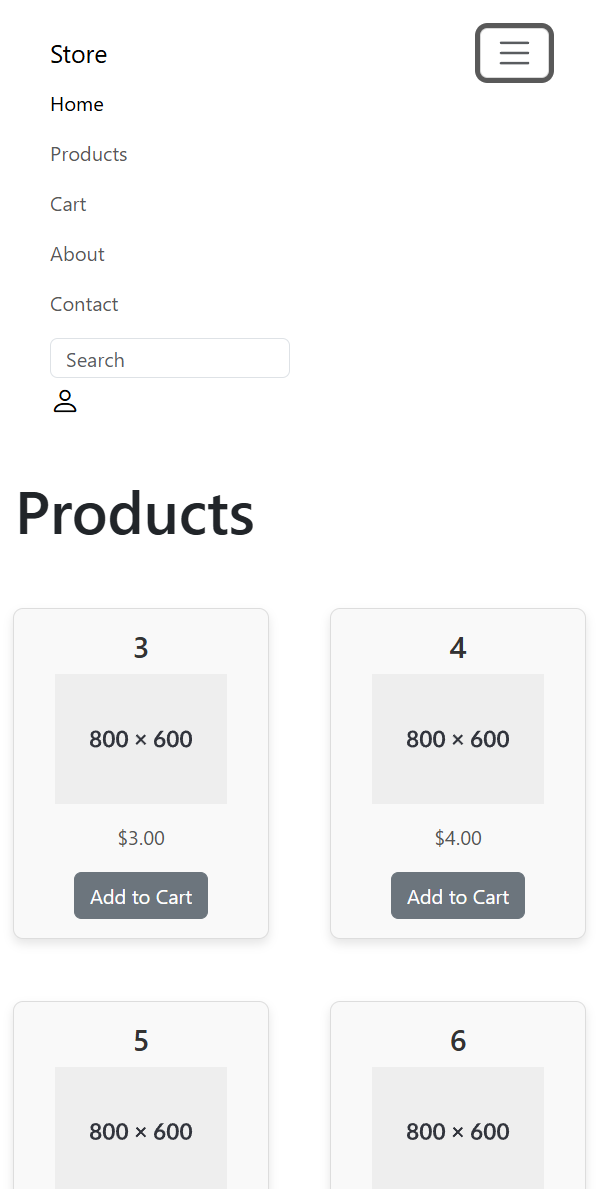
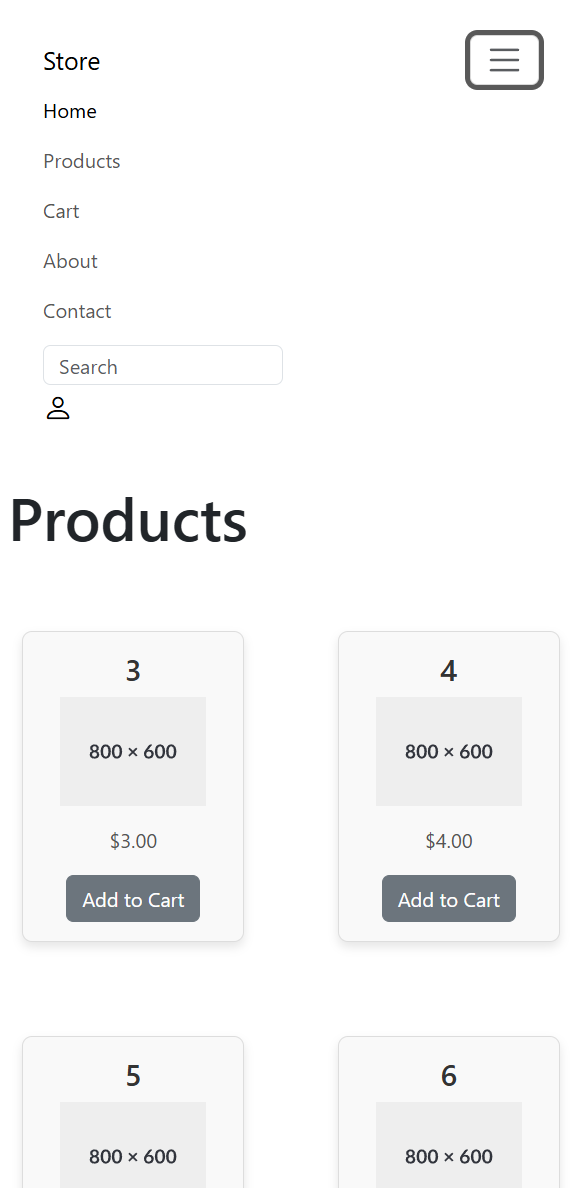
refactor

diff --git a/templates/about.html b/templates/about.html
@@ -7,13 +7,13 @@
 <h1>About</h1>
 
 <section id="about">
-    <p>Welcome to <strong>[Your Website Name]</strong>! We are dedicated to providing
+    <p>Welcome to <strong>[Your Store Name]</strong>! We are dedicated to providing
         [a brief description of your services, products, or mission].</p>
     <p>Our goal is to [state your purpose, such as delivering high-quality solutions,
         inspiring creativity, or helping customers achieve their goals].</p>
     <p>With a passion for [your industry or niche], we strive to bring innovation,
         reliability, and excellence to everything we do.</p>
-    <p>Thank you for visiting <strong>[Your Website Name]</strong>. We look forward to serving you!</p>
+    <p>Thank you for visiting <strong>[Your Store Name]</strong>. We look forward to serving you!</p>
 </section>
 
 

diff --git a/static/css/product-grid.css b/static/css/product-grid.css
@@ -1,12 +1,12 @@
 .product-grid {
     display: grid;
-    grid-template-columns: repeat(auto-fill, minmax(13rem, 1fr));
+    grid-template-columns: repeat(auto-fill, minmax(14rem, 1fr));
     gap: 1.25rem;
     margin-top: 2.25rem;
 }
 
 .product-card {
-    margin: 0.8225rem;
+    margin: 1.7225rem;
     border: 0.0625rem solid #ddd;
     padding: 0.9375rem;
     text-align: center;

diff --git a/templates/contact.html b/templates/contact.html
@@ -6,7 +6,7 @@
 <link rel="stylesheet" href="{% static 'css/contact.css' %}">
 <h1>Contact</h1>
 <div id="contact-form">
-    <p>Have questions or need assistance? Feel free to reach out to us!</p>
+    <p>Need help or have questions?</p>
 
     <form action="submit_form.php" method="POST">
         <label for="name">Name:</label>

diff --git a/static/css/styles.css b/static/css/styles.css
@@ -28,11 +28,6 @@ footer {
 /* Login/Logout Icon */
 .bi {
     font-size: 1.5rem;
-    opacity: 0.5;
     transition: opacity 0.3s ease;
     color: black;
-}
-
-.bi:hover {
-    opacity: 1.0;
 }

diff --git a/static/css/about.css b/static/css/about.css
@@ -3,5 +3,5 @@
     justify-content: center;
     align-items: center;
     flex-direction: column;
-    margin-top: 4rem;
+    margin: 4rem;
 }

diff --git a/static/css/contact.css b/static/css/contact.css
@@ -42,3 +42,7 @@
     margin-top: 0.625rem;
     text-align: center;
 }
+
+p {
+    text-align: center;
+}
